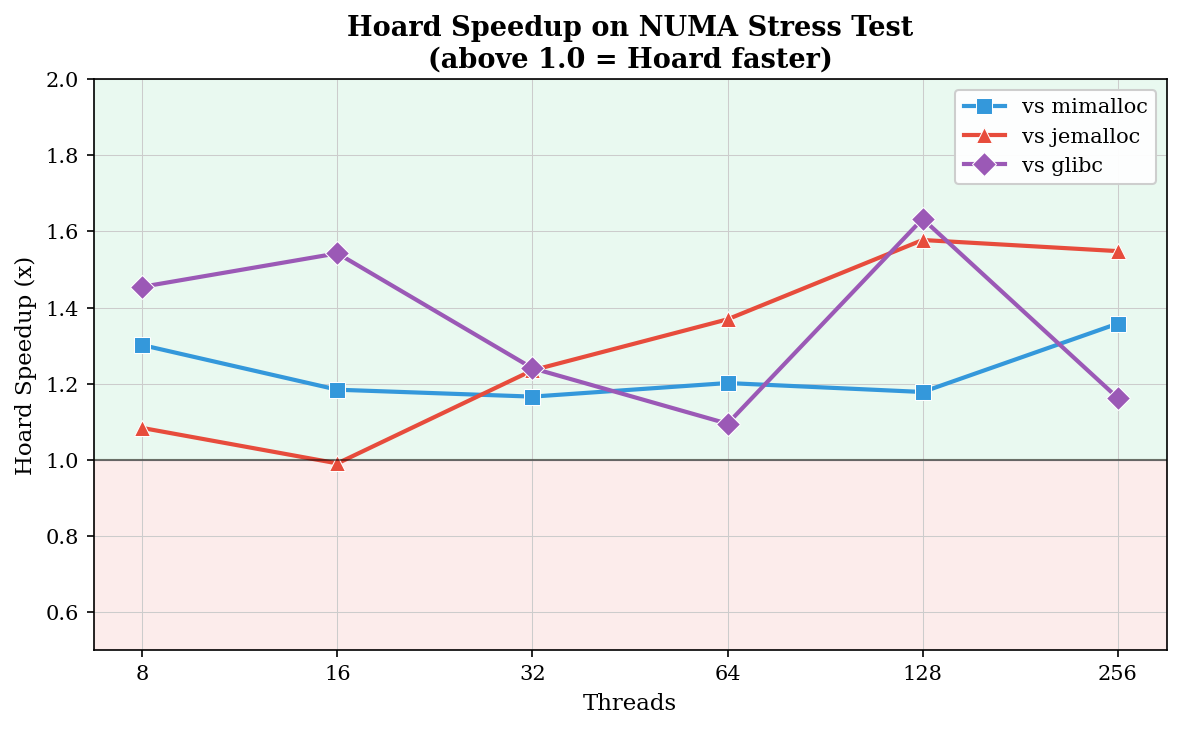
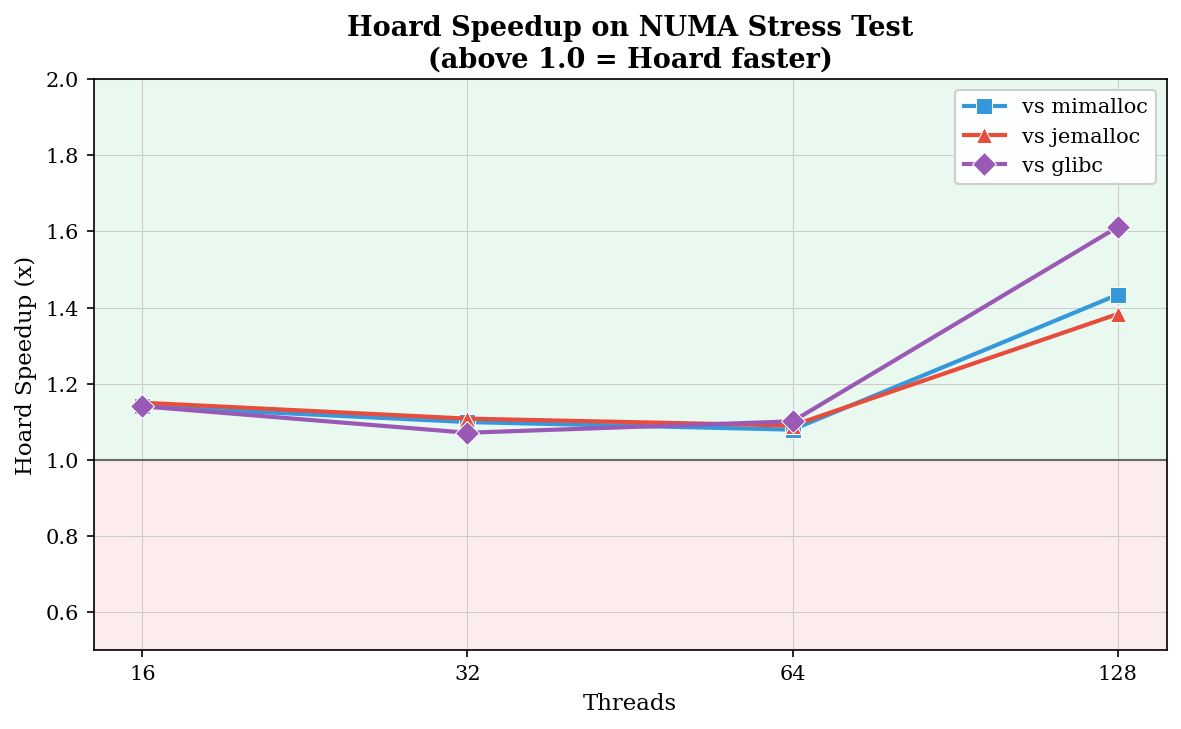
Update README and NUMA graphs with 20-touch benchmark results
README changes:
- Add structured sections with take-home messages for each benchmark
- Add key findings summary at the top
- Add NUMA performance section with new graphs
- Highlight Hoard's advantages: 1.3-1.5x throughput on Larson,
  2-5x faster on Phong, up to 1.6x faster on NUMA systems

NUMA benchmark changes:
- Update data to use 20 touches per object (isolates NUMA effects)
- 256B objects, 16-128 threads
- At 128 threads: Hoard 1.43x faster than mimalloc, 1.61x faster than glibc

diff --git a/doc/generate_numa_benchmarks.py b/doc/generate_numa_benchmarks.py
@@ -43,13 +43,14 @@ MARKERS = {
     'glibc': 'D',
 }
 
-# NUMA stress test throughput data (ops/sec, averaged over 3 runs)
-numa_threads = [8, 16, 32, 64, 128, 256]
+# NUMA stress test throughput data (M ops/sec, averaged over 3 runs)
+# 256B objects, 20 touches per object to isolate NUMA effects
+numa_threads = [16, 32, 64, 128]
 numa_throughput = {
-    'Hoard': [27.2, 41.8, 56.2, 72.7, 92.6, 99.4],
-    'mimalloc': [20.9, 35.3, 48.2, 60.5, 78.6, 73.2],
-    'jemalloc': [25.1, 42.2, 45.5, 53.1, 58.7, 64.2],
-    'glibc': [18.7, 27.1, 45.3, 66.4, 56.7, 85.5],
+    'Hoard': [2.76, 5.43, 10.9, 19.5],
+    'mimalloc': [2.42, 4.94, 10.1, 13.6],
+    'jemalloc': [2.40, 4.90, 10.0, 14.1],
+    'glibc': [2.42, 5.07, 9.9, 12.1],
 }
 
 # Perf counter data: remote memory access percentages (64 threads)

diff --git a/README.md b/README.md
@@ -190,46 +190,66 @@ cl /Ox /MD yourapp.cpp /link hoard.lib
 Benchmarks
 ----------
 
-The directory `benchmarks/` contains a number of benchmarks used to
-evaluate and tune Hoard.
+The directory `benchmarks/` contains a number of benchmarks used to evaluate and tune Hoard.
 
-### Performance Comparison
+All benchmarks were run on a **192-core, 2-node NUMA system** (AMD EPYC). Graphs are normalized to Hoard (1.0 = Hoard, shown as green line). Values above the line mean worse than Hoard.
 
-Hoard was benchmarked against mimalloc, jemalloc, and glibc on a 192-core, 2-node NUMA system. All graphs are normalized to Hoard (1.0 = Hoard, shown as green line). Values above the line mean worse than Hoard.
+### Summary
 
-#### Summary
+**Key findings:**
+- Hoard achieves **1.3-1.5x higher throughput** than mimalloc, jemalloc, and glibc on server workloads (Larson)
+- Hoard is **2-5x faster** on realloc-heavy workloads (Phong)
+- Hoard uses **less memory** than mimalloc and jemalloc at high thread counts
+- On NUMA systems, Hoard is **up to 1.6x faster** due to NUMA-aware memory management
 
 ![Execution Time Summary](doc/bench_summary_time.png)
 
 ![Memory Usage Summary](doc/bench_summary_mem.png)
 
-#### Larson (server workload simulation)
+### Larson (server workload simulation)
 
-Simulates a multithreaded server handling many short-lived allocations. Hoard achieves 1.3-1.5x higher throughput than all other allocators.
+Simulates a multithreaded server handling many short-lived allocations with object passing between threads.
+
+**Take-home:** Hoard achieves **1.3-1.5x higher throughput** than all other allocators across all thread counts. This benchmark is representative of real server workloads.
 
 ![Larson - Throughput](doc/bench_larson_throughput.png)
 ![Larson - Memory](doc/bench_larson_mem.png)
 
-#### threadtest (malloc/free throughput)
+### threadtest (malloc/free throughput)
 
-Measures raw allocation throughput. Hoard is fastest at low thread counts (16-32) and matches mimalloc at 256 threads.
+Measures raw allocation/deallocation throughput with minimal work between operations.
+
+**Take-home:** Hoard is **fastest at low-medium thread counts** (8-32 threads) and matches mimalloc at 256 threads. Hoard uses significantly less memory than jemalloc at high thread counts.
 
 ![threadtest - Time](doc/bench_threadtest_time.png)
 ![threadtest - Memory](doc/bench_threadtest_mem.png)
 
-#### Phong (realloc-heavy workload)
+### Phong (realloc-heavy workload)
 
-Tests realloc performance. Hoard is 2-5x faster than all other allocators at low-medium thread counts (4-64) due to optimized realloc implementation.
+Tests realloc performance with repeated grow/shrink patterns.
+
+**Take-home:** Hoard is **2-5x faster** than all other allocators at low-medium thread counts (4-64) due to its optimized in-place realloc implementation.
 
 ![Phong - Time](doc/bench_phong_time.png)
 ![Phong - Memory](doc/bench_phong_mem.png)
 
-#### linux-scalability
+### linux-scalability
 
-Pure malloc/free pairs. jemalloc excels here; this workload is adversarial for Hoard's superblock design.
+Pure malloc/free pairs with no work between operations. Tests raw allocator scalability.
+
+**Take-home:** jemalloc excels here; this workload is adversarial for Hoard's superblock design. However, jemalloc uses significantly more memory.
 
 ![linux-scalability - Time](doc/bench_linuxscal_time.png)
 ![linux-scalability - Memory](doc/bench_linuxscal_mem.png)
+
+### NUMA Performance
+
+On NUMA systems, memory locality matters. Hoard's NUMA-aware sharding keeps allocations on the same NUMA node as the allocating thread, reducing cross-node memory traffic.
+
+**Take-home:** At 128 threads on a 2-node NUMA system, Hoard is **1.4x faster than mimalloc**, **1.4x faster than jemalloc**, and **1.6x faster than glibc**. The advantage grows with thread count.
+
+![NUMA Throughput](doc/numa_throughput.png)
+![NUMA Speedup](doc/numa_speedup.png)
 
 
 Technical Information
